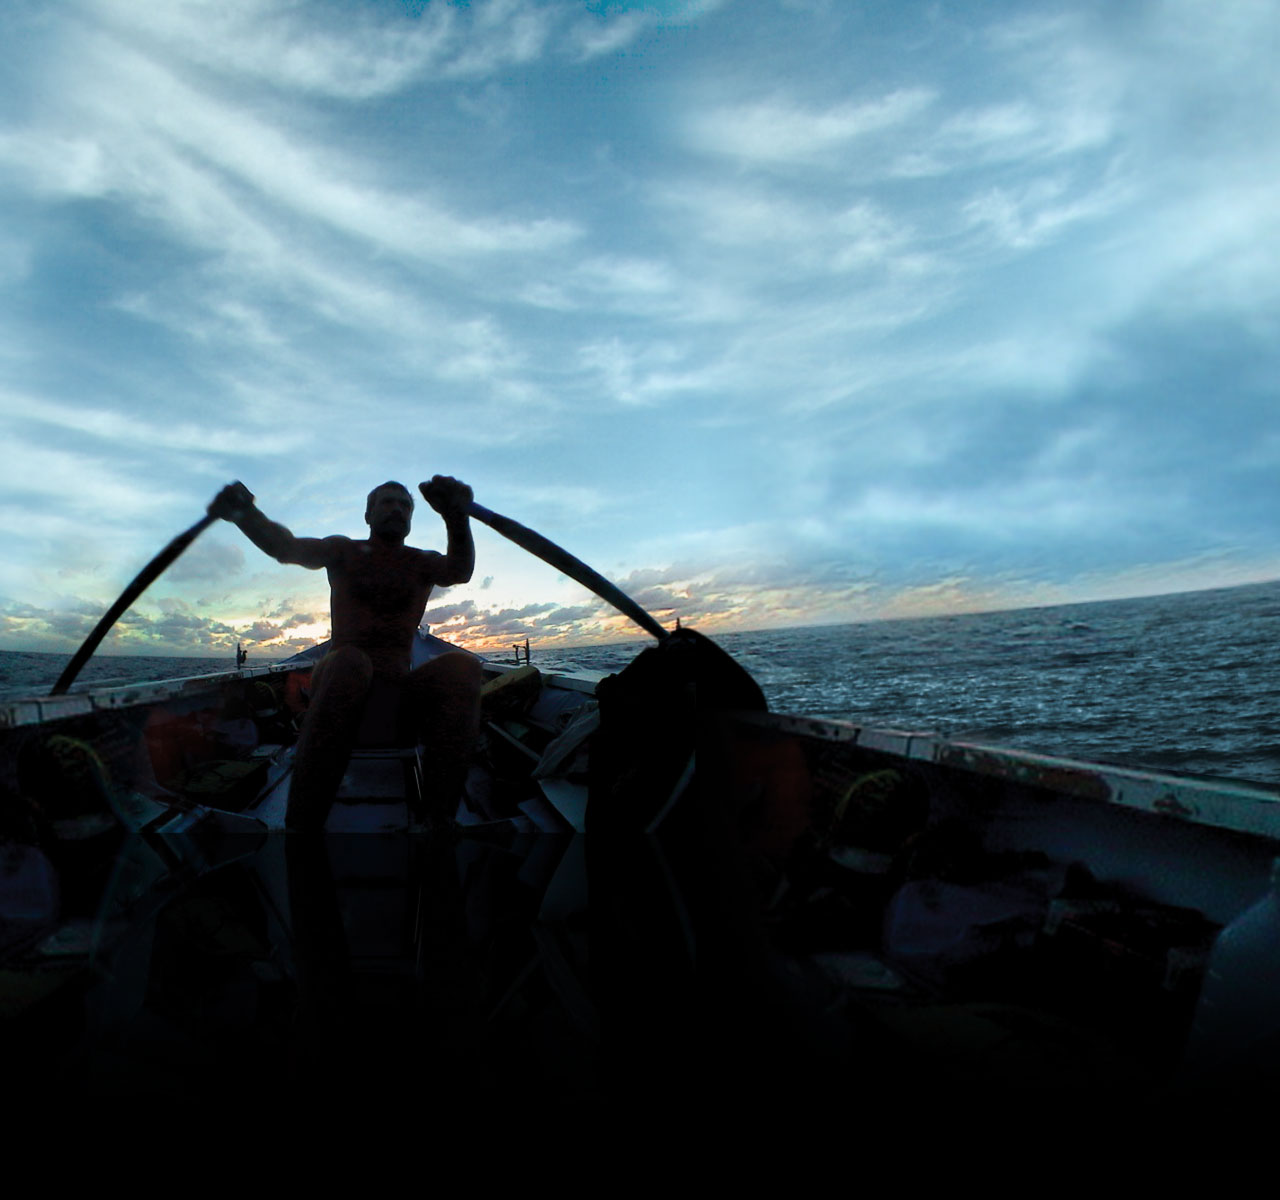
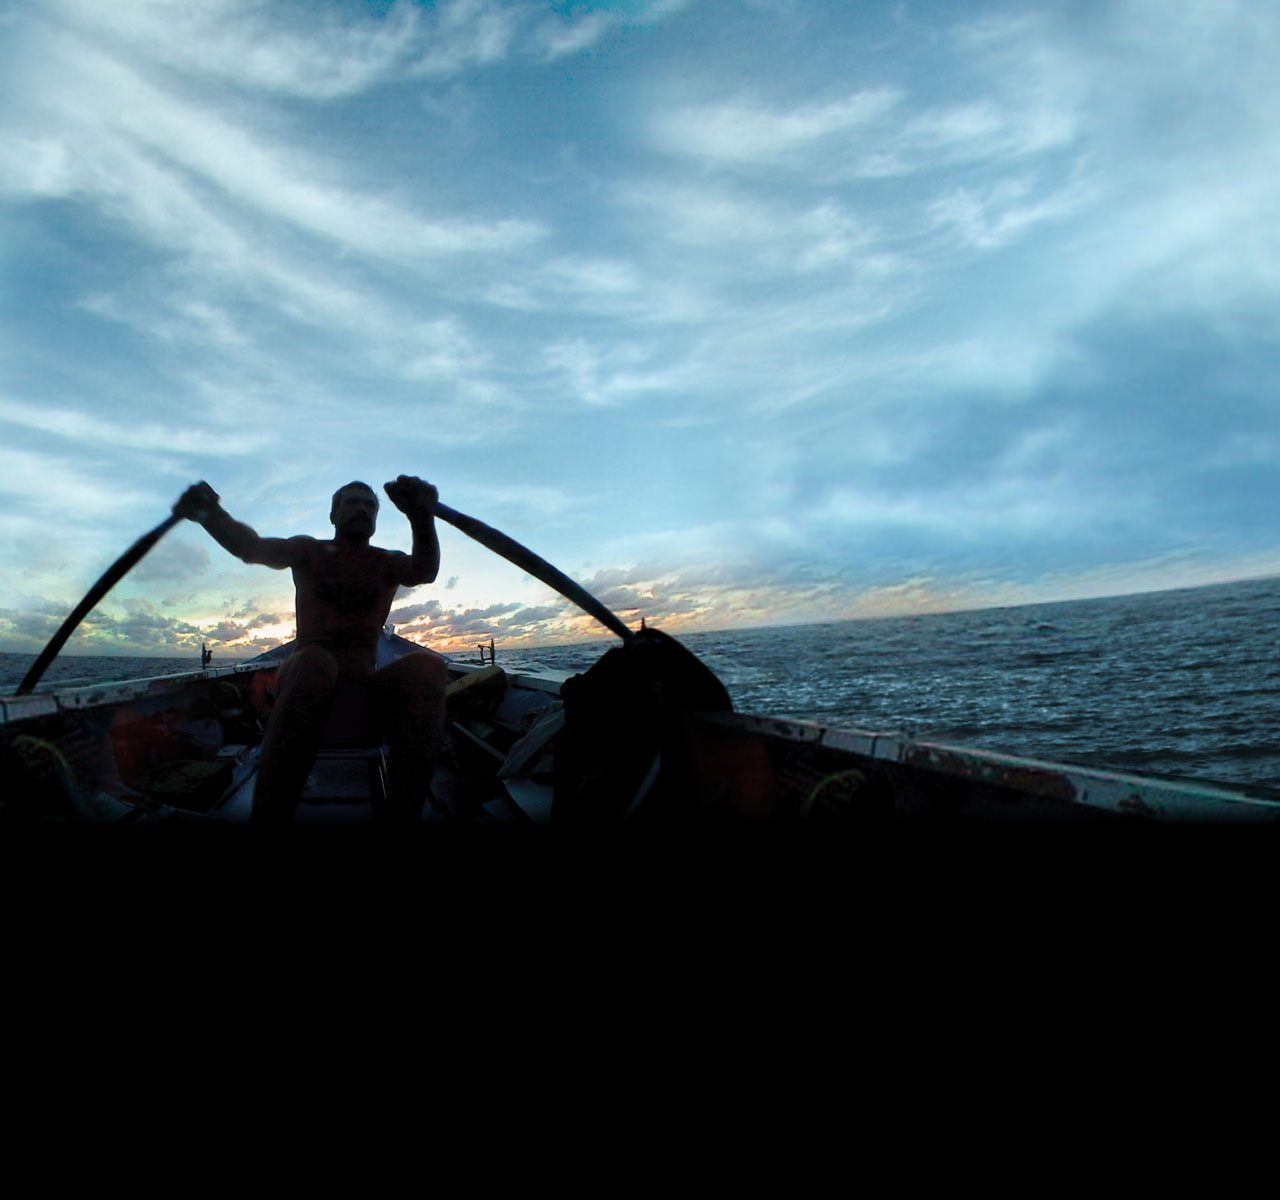
Making the cropped background default at widest widths, updating backgrounds (multiple sizes, different crops and orientations, covering up reflections with black), tweaking responsive layouts a bit, trailer movie opens on page load at desktop widths

diff --git a/css/main.css b/css/main.css
@@ -58,19 +58,33 @@ body > .row {
     min-height:320px;
     width:100%;
     background-color: #000;
-    background-image: url("/images/background.jpg");
-    background-position: 50% 50%;
-    background-size: cover;
+    background-image: url("/images/background-mobile.jpg");
+    /* background-position: 50% 50%; */
+    /* background-size: cover; */
+    background-position:0 0;
+    background-size:100% auto;
     background-attachment: scroll;
     background-repeat: no-repeat;
 }
   .touchcapable .bg {
     position:absolute;
-    background-size:100% auto;
-    background-position:50% -5%;
+    /*  background-size:100% auto;
+    background-position:50% -5%;*/
   }
 
+@media screen and (min-width: 481px) {
+  .bg {
+    background-image: url("/images/background-tablet.jpg");
+  }
+}
 
+@media screen and (min-width:769px) {
+  .bg {
+    background-image:url("/images/background-cropped.jpg");
+  }
+}
+
+/*
 @media screen and (orientation:portrait) {
   .bg,
   .touchcapable .bg {
@@ -88,12 +102,15 @@ body > .row {
 @media screen and (min-width: 768px) and (orientation:portrait) {
   .bg,
   .touchcapable .bg {
+      background-image: url("/images/background.jpg");
       background-size:100% auto;
       background-position:50% -5%;
   }
 }
+*/
 @media screen and (min-width:1200px) {
-    .altbg .bg {
+    .bg,
+    .touchcapable .bg {
         background-image:url("/images/background-cropped.jpg");
         left:50%;
         width:1280px;
@@ -102,7 +119,6 @@ body > .row {
         right:auto;
         background-size:auto;
         background-position:50% 50%;
-        
     }
 }
 
@@ -219,34 +235,37 @@ img {
 /* ----------------------------------------------------------*/
 
 /* Branding */
+.branding {
+  max-width:409px;
+  margin-left:auto;
+  margin-right:auto;
+  float:none;
+}
+.mainnav {
+    float:right;
+    width:165px;
+}
 
 @media screen and (min-width:480px) {
   .branding {
-    
-    max-width:55%;
-    float:left;
-  }
-  .mainnav {
-      float:right;
-      max-width:45%;
+    padding:0;
   }
 }
 @media screen and (min-width:768px) {
   .branding {
-      padding-right:30px;
-      padding-right:1.875rem;
-  }
-  .branding,
-  .mainnav {
-      max-width:none;
-  }
-  .mainnav {
       float:left;
+      margin-left:0;
+      margin-right:30px;
+      margin-right:1.875rem;
+      padding-left:15px;
+      max-width:424px;
+  }
+  .mainnav {
+    float:left;
   }
 }
-.branding h1 {
-    max-width:500px;
-}
+
+
 .branding img {
     display:block;
 }
@@ -269,9 +288,16 @@ img {
     margin-top:300px;
   }
 }
-@media screen and (min-width: 1025px) {
+@media screen and (min-width: 1024px) {
   .maincontent {
     margin-top:0;
+    max-width:390px;
+    padding-left:0;
+  }
+}
+@media screen and (min-width: 1080px) {
+  .maincontent {
+    max-width:none;
   }
 }
 
@@ -505,7 +531,7 @@ blockquote p {
 .trailer-largerscreens {
   display:none; 
 }
-  @media screen and (min-width: 1025px) {
+  @media screen and (min-width: 1026px) {
     .trailer-smallerscreens {
       display:none;  
     }
@@ -751,7 +777,7 @@ ul.tabs {
   -moz-font-smoothing: antialiased;
   -o-font-smoothing: antialiased;
   -moz-osx-font-smoothing: grayscale;
-  margin-left:5px;
+  margin-left:1px;
   margin-bottom:2px !important;
   
   -webkit-transition: background-color, 0.1s, linear, color, 0.1s, linear;
@@ -784,6 +810,7 @@ ul.tabs {
        margin-left:0;
    } 
 }
+
 .tabs-content > .content {
   padding-top:15px;
   padding-bottom:15px;
@@ -826,21 +853,20 @@ ul.tabs {
   font-weight: 500;
   font-size:14px;
   font-size:0.875rem;
-  /* color:#698fa0;
-  color:rgba(0,0,0,.3); */
   color:#fff;
   color:rgba(255,255,255,.9);
   line-height:1.25;
-  /*text-shadow:1px 1px 1px rgba(255,255,255,.3);*/
   text-shadow:1px 1px 1px rgba(0,0,0,.5);
 }
 @media screen and (min-width: 40.063em) {
     .side-nav li a:not(.button) {
       font-size:18px;
       font-size:1.125rem;
+      color:#698fa0;
+      color:rgba(0,0,0,.3);
+      text-shadow:1px 1px 1px rgba(255,255,255,.3);
     }
 }
-
 
 .side-nav li.active > a:first-child:not(.button), .side-nav li a:not(.button):hover {
   font-family: "Open Sans", Helvetica, Arial, sans-serif;

diff --git a/assets/js/scripts.js b/assets/js/scripts.js
@@ -1,0 +1,129 @@
+/* Custom scripting for the site */
+
+/* New modernizr test for all touch devices */
+Modernizr.addTest('touchcapable', function () {
+    var bool;
+    if (
+        ('ontouchstart' in window) || 
+        (window.DocumentTouch && document instanceof DocumentTouch) || 
+        (navigator.maxTouchPoints > 0) || 
+        (navigator.msMaxTouchPoints > 0)
+    ){
+        // Secondary test to rule out some false positives
+        if (
+            (window.screen.width > 1279 && window.devicePixelRatio == 1) ||
+            (window.screen.width > 1000 && window.innerWidth < (window.screen.width * 0.9)) // this checks if a user is using a resized browser window, not common on mobile devices
+        ){
+            bool = false;
+        } else {
+            bool = true;
+        }
+    } else {
+        bool = false;
+    }
+    return bool;
+});
+
+/* Global namespace */
+var RowHard = RowHard || {};
+
+RowHard.data = RowHard.data || {};
+
+RowHard.el = {
+    html            : $('html'),
+    win             : $(window),
+    doc             : $(document),
+    body            : $('body'),
+    footer          : $('.footer')
+};
+
+RowHard.isPageloaded = false;
+
+RowHard.util = {
+    hasTouch        : Modernizr.touchcapable,
+    orientation     : function() {
+        if (typeof orientation != 'undefined') {
+            return (Math.abs(window.orientation) === 90)? "landscape" : "portrait";
+        } else {
+            return (RowHard.util.viewportWidth() >= RowHard.util.viewportHeight()) ? "landscape" : "portrait";
+        }
+    },
+    isOldIE: function() {
+        return (($.browser.msie) && ($.browser.version <= 8))? true : false;
+    }
+};
+
+/* Set up link behaviors
+   ========================================================================== */
+RowHard.links = {
+    init: function() {
+        // Prevent jumping to top upon clicking blank links
+        $('a[href="#"]').click(function(e){e.preventDefault();});
+        
+        // Open PDF links in a new window
+        $('a[href$=".pdf"]').attr('target', '_blank');
+    }
+};
+
+/* Set up modals
+   ========================================================================== */
+RowHard.modals = {
+    triggered: false,
+    init: function() {
+        enquire.register("screen and (min-width:1026px)", {
+            match : function() {
+                if (RowHard.modals.triggered === false) {
+                    // Open the trailer modal
+                    $('#trailerModal').foundation('reveal', 'open');
+                    RowHard.modals.triggered = true;
+                }
+            }
+              
+        }); 
+    }
+};
+
+/* Initialize/Fire
+   ========================================================================== */
+RowHard.startup = {
+    init : function () {
+        //console.log("Initial load: scripting initializing");
+        RowHard.links.init();
+        RowHard.modals.init();
+    },
+    finalize : function() {
+        //console.log("Initial load: scripting finalized");
+    }
+};
+
+$(document).ready(function() {
+
+    Modernizr.load([
+        
+        // Test need for matchMedia polyfill
+        {
+            test: window.matchMedia,
+            nope: ['/assets/js/vendor/media.match.min.js'],
+            load: ['/assets/js/vendor/enquire.min.js'],
+            complete: function() {
+
+                /* Fire based on document context 
+                ========================================================================== */
+
+                var namespace  = RowHard.startup, context = document.body.id;
+                if (typeof namespace.init === 'function') {
+                    namespace.init();
+                }
+                if (namespace && namespace[ context ] && (typeof namespace[ context ] === 'function')) {
+                    namespace[ context ]();
+                }
+                if (typeof namespace.finalize === 'function') {
+                    namespace.finalize();
+                }
+
+                RowHard.isPageloaded = true;
+ 
+            }
+        }
+    ]);
+});

diff --git a/_includes/head.html b/_includes/head.html
@@ -19,32 +19,6 @@
 
   <script type="text/javascript" src="/assets/js/vendor/modernizr.js"></script>
 
-  <!-- Additional modernizr test for touch capability -->
-  <script>
-  Modernizr.addTest('touchcapable', function () {
-      var bool;
-      if (
-          ('ontouchstart' in window) || 
-          (window.DocumentTouch && document instanceof DocumentTouch) || 
-          (navigator.maxTouchPoints > 0) || 
-          (navigator.msMaxTouchPoints > 0)
-      ){
-          // Secondary test to rule out some false positives
-          if (
-              (window.screen.width > 1279 && window.devicePixelRatio == 1) ||
-              (window.screen.width > 1000 && window.innerWidth < (window.screen.width * 0.9)) // this checks if a user is using a resized browser window, not common on mobile devices
-          ){
-              bool = false;
-          } else {
-              bool = true;
-          }
-      } else {
-          bool = false;
-      }
-      return bool;
-  });
-  </script>
-
   <!-- Respond.js for IE8 and under -->
   <!--[if lt IE 9]>
     <script type="text/javascript" src="/assets/js/vendor/respond.min.js"></script>

diff --git a/_includes/masthead.html b/_includes/masthead.html
@@ -1,6 +1,6 @@
-    <div class="medium-8 large-5 columns branding">
+    <div class="columns branding">
       <h1><a href="/"><img src="/images/logo.png" alt="Row Hard, No Excuses. Beautiful Journey. One Hell of a Race."></a></h1>
     </div>
-    <div class="medium-4 large-2 columns mainnav">
+    <div class="columns mainnav">
 {% include nav.html %}
     </div>

diff --git a/_includes/scripts.html b/_includes/scripts.html
@@ -5,3 +5,4 @@
 $(document).foundation();
 $('html').removeClass('no-js');
 </script>
+<script type="text/javascript" src="/assets/js/scripts.js"></script>
